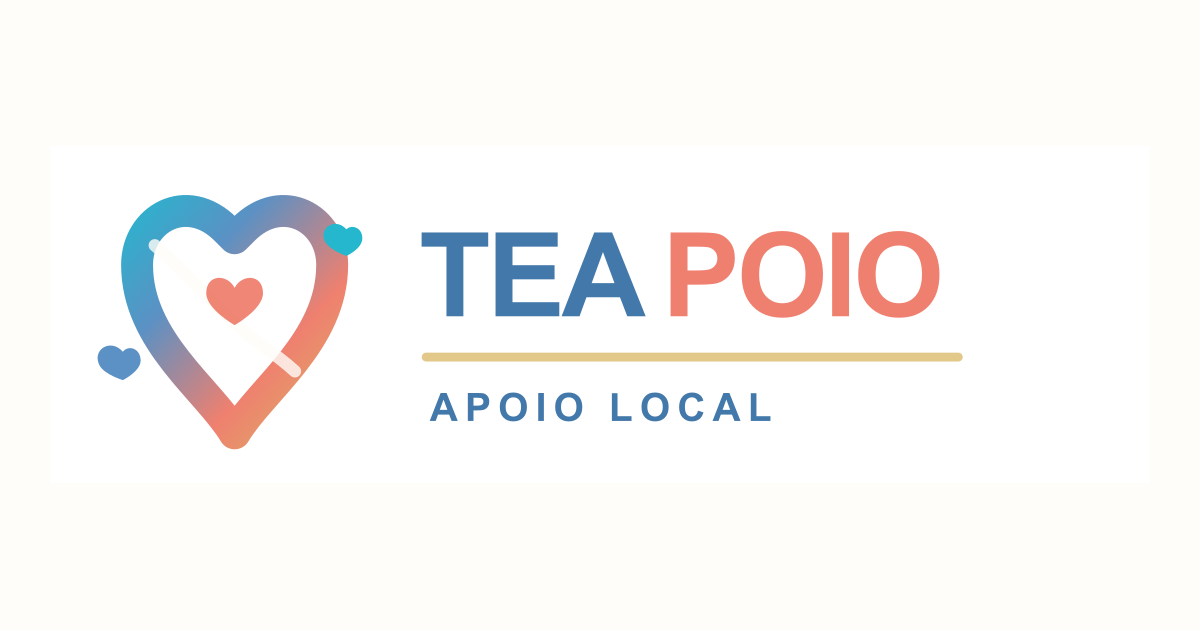
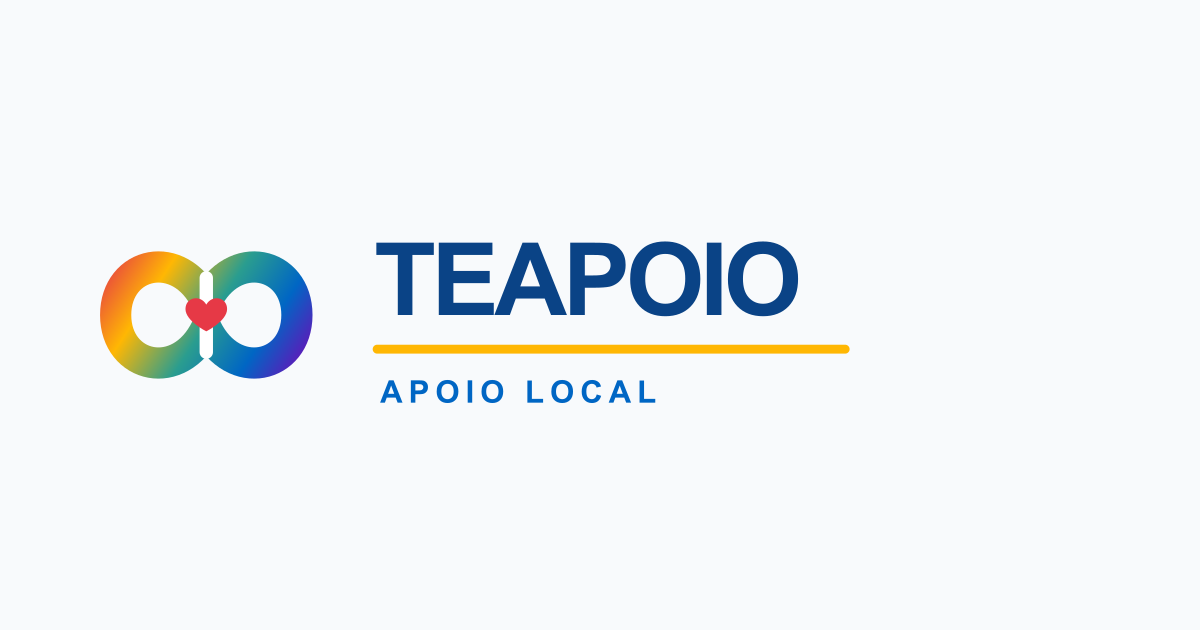
feat: aplicar manual visual oficial do TEAPOIO

Changed region(s): [[0.0617, 0.3016, 0.8017, 0.7238], [0.3083, 0.6032, 0.6475, 0.6635], [0.3083, 0.5429, 0.8017, 0.573]]

diff --git a/site/src/styles/global.css b/site/src/styles/global.css
@@ -1,30 +1,41 @@
 :root {
-  --ink: #24435f;
-  --muted: #5b6d79;
-  --paper: #fffdf9;
+  --teapoio-blue-primary: #0A4386;
+  --teapoio-blue-accent: #0066C4;
+  --teapoio-red: #E63946;
+  --teapoio-yellow: #FFB703;
+  --teapoio-green: #2A9D8F;
+  --teapoio-purple: #7209B7;
+  --teapoio-bg-light: #F8FAFC;
+  --teapoio-text-dark: #1E293B;
+  --teapoio-font: "Outfit", "Montserrat", sans-serif;
+  --teapoio-body-font: "Open Sans", "Roboto", sans-serif;
+  --ink: var(--teapoio-text-dark);
+  --muted: #475569;
+  --paper: var(--teapoio-bg-light);
   --surface: #ffffff;
-  --cream: #fff7ec;
-  --blue: #4278aa;
-  --teal: #168fa7;
-  --cyan: #25b7ce;
-  --coral: #ef806f;
-  --yellow: #d8b563;
-  --purple: #76537e;
-  --green: #279b55;
-  --line: #dbe5e0;
-  --soft-blue: #edf4ff;
-  --soft-coral: #fff0eb;
-  --soft-yellow: #fffbe2;
+  --cream: #FFF9E6;
+  --blue: var(--teapoio-blue-primary);
+  --teal: var(--teapoio-green);
+  --cyan: var(--teapoio-blue-accent);
+  --coral: var(--teapoio-red);
+  --yellow: var(--teapoio-yellow);
+  --yellow-ink: #8A6300;
+  --purple: var(--teapoio-purple);
+  --green: var(--teapoio-green);
+  --line: #D6E0EA;
+  --soft-blue: #EEF5FF;
+  --soft-coral: #FFF0F1;
+  --soft-yellow: #FFF8DD;
   --radius-lg: 28px;
   --radius-md: 18px;
-  --shadow: 0 20px 55px rgba(38, 74, 87, 0.11);
+  --shadow: 0 20px 55px rgba(10, 67, 134, 0.14);
   --ease: cubic-bezier(0.16, 1, 0.3, 1);
 }
 
 * { box-sizing: border-box; }
 html { scroll-behavior: smooth; background: var(--paper); }
-body { min-width: 320px; margin: 0; overflow-x: hidden; background: var(--paper); color: var(--ink); font-family: "Lato", "Atkinson Hyperlegible", "Trebuchet MS", Arial, sans-serif; font-size: 1.08rem; line-height: 1.6; }
-h1, h2, h3, h4 { font-family: "Montserrat", "Lato", "Trebuchet MS", Arial, sans-serif; text-wrap: balance; }
+body { min-width: 320px; margin: 0; overflow-x: hidden; background: var(--paper); color: var(--ink); font-family: var(--teapoio-body-font); font-size: 1.08rem; line-height: 1.6; }
+h1, h2, h3, h4 { font-family: var(--teapoio-font); text-wrap: balance; }
 body::selection { background: var(--yellow); color: var(--ink); }
 a { color: inherit; }
 button, input, select { font: inherit; }
@@ -39,7 +50,7 @@ img { max-width: 100%; }
 [hidden] { display: none !important; }
 
 .site-header { position: fixed; z-index: 30; top: 16px; left: 50%; width: min(1160px, calc(100% - 2rem)); transform: translateX(-50%); }
-.site-header__inner { display: flex; min-height: 64px; align-items: center; gap: 24px; padding: 10px 12px 10px 16px; border: 1px solid rgba(34, 50, 56, 0.12); border-radius: 18px; background: rgba(255, 253, 249, 0.92); box-shadow: 0 10px 35px rgba(46, 75, 77, 0.1); backdrop-filter: blur(18px); }
+.site-header__inner { display: flex; min-height: 64px; align-items: center; gap: 24px; padding: 10px 12px 10px 16px; border: 1px solid rgba(30, 41, 59, 0.12); border-radius: 18px; background: rgba(248, 250, 252, 0.94); box-shadow: 0 10px 35px rgba(10, 67, 134, 0.1); backdrop-filter: blur(18px); }
 .brand { display: inline-flex; flex: none; align-items: center; gap: 10px; color: var(--blue); text-decoration: none; }
 .brand__logo { display: block; width: 38px; height: 38px; flex: none; }
 .brand__name { display: inline-flex; align-items: baseline; color: var(--blue); font-size: 1.08rem; font-weight: 900; letter-spacing: 0.025em; }
@@ -49,15 +60,15 @@ img { max-width: 100%; }
 .site-header nav a[aria-current="page"] { color: var(--blue); }
 .header-cta, .button { display: inline-flex; align-items: center; justify-content: center; gap: 9px; border-radius: 999px; font-weight: 800; text-decoration: none; transition: transform 0.25s var(--ease), box-shadow 0.25s var(--ease), background 0.25s var(--ease); }
 .header-cta { flex: none; padding: 11px 16px; background: var(--blue); color: #fff; font-size: 0.84rem; }
-.header-cta:hover, .button--primary:hover { box-shadow: 0 12px 24px rgba(20, 87, 213, 0.22); transform: translateY(-2px); }
+.header-cta:hover, .button--primary:hover { box-shadow: 0 12px 24px rgba(0, 102, 196, 0.24); transform: translateY(-2px); }
 .menu-toggle { display: none; align-items: center; gap: 8px; padding: 9px 11px; border: 1px solid var(--line); border-radius: 999px; background: var(--surface); color: var(--ink); cursor: pointer; font-size: 0.8rem; font-weight: 800; }
 .menu-toggle__icon { display: grid; gap: 3px; }
 .menu-toggle__icon i { display: block; width: 15px; height: 2px; border-radius: 2px; background: currentColor; }
 
 .hero { position: relative; display: grid; min-height: 760px; grid-template-columns: 0.93fr 1.07fr; align-items: center; gap: clamp(36px, 7vw, 92px); padding-block: 145px 100px; }
-.hero::before { position: absolute; z-index: -1; top: 110px; left: -20vw; width: 50vw; height: 50vw; max-width: 650px; max-height: 650px; border-radius: 50%; background: radial-gradient(circle, rgba(243, 221, 25, 0.17), rgba(243, 221, 25, 0) 67%); content: ""; }
+.hero::before { position: absolute; z-index: -1; top: 110px; left: -20vw; width: 50vw; height: 50vw; max-width: 650px; max-height: 650px; border-radius: 50%; background: radial-gradient(circle, rgba(255, 183, 3, 0.2), rgba(255, 183, 3, 0) 67%); content: ""; }
 .eyebrow { display: flex; align-items: center; gap: 9px; margin: 0; color: var(--teal); font-size: 0.73rem; font-weight: 900; letter-spacing: 0.13em; line-height: 1.2; }
-.eyebrow__pulse { width: 9px; height: 9px; border-radius: 50%; background: var(--coral); box-shadow: 0 0 0 5px rgba(239, 76, 78, 0.12); }
+.eyebrow__pulse { width: 9px; height: 9px; border-radius: 50%; background: var(--coral); box-shadow: 0 0 0 5px rgba(230, 57, 70, 0.14); }
 .hero h1 { max-width: 690px; margin: 22px 0 22px; color: var(--blue); font-size: clamp(3.8rem, 8vw, 7.1rem); line-height: 0.88; letter-spacing: -0.1em; }
 .hero h1 span { color: var(--teal); }
 .hero__lede { max-width: 570px; margin: 0; color: var(--muted); font-size: clamp(1.08rem, 1.8vw, 1.3rem); line-height: 1.55; }
@@ -70,11 +81,11 @@ img { max-width: 100%; }
 .hero__trust span { display: inline-flex; align-items: center; gap: 6px; }
 .hero__trust i { display: grid; width: 18px; height: 18px; place-items: center; border-radius: 50%; background: var(--yellow); color: var(--ink); font-size: 0.72rem; font-style: normal; }
 .hero__visual { position: relative; min-height: 510px; }
-.hero__visual::before { position: absolute; top: 7%; right: 5%; width: 86%; height: 84%; border-radius: 45% 32% 44% 28%; background: linear-gradient(135deg, rgba(9, 184, 210, 0.15), rgba(243, 221, 25, 0.2)); transform: rotate(5deg); content: ""; }
-.hero__image-wrap { position: relative; display: grid; width: min(100%, 530px); height: 535px; margin-inline: auto; place-items: center; overflow: hidden; border: 1px solid rgba(66, 120, 170, 0.16); border-radius: 42% 26% 42% 28%; background: linear-gradient(145deg, #fffdf9 12%, #eef9f8 53%, #fff3e6); box-shadow: var(--shadow); transform: rotate(2deg); }
+.hero__visual::before { position: absolute; top: 7%; right: 5%; width: 86%; height: 84%; border-radius: 45% 32% 44% 28%; background: linear-gradient(135deg, rgba(42, 157, 143, 0.16), rgba(255, 183, 3, 0.2)); transform: rotate(5deg); content: ""; }
+.hero__image-wrap { position: relative; display: grid; width: min(100%, 530px); height: 535px; margin-inline: auto; place-items: center; overflow: hidden; border: 1px solid rgba(10, 67, 134, 0.18); border-radius: 42% 26% 42% 28%; background: linear-gradient(145deg, #F8FAFC 12%, #EEF8F7 53%, #FFF8E7); box-shadow: var(--shadow); transform: rotate(2deg); }
 .hero__image-wrap::after { position: absolute; inset: 0; border: 4px solid transparent; border-radius: inherit; background: linear-gradient(135deg, var(--yellow), var(--coral), var(--blue), var(--teal)) border-box; mask: linear-gradient(#fff 0 0) padding-box, linear-gradient(#fff 0 0); mask-composite: exclude; opacity: 0.55; content: ""; pointer-events: none; }
 .hero__image-wrap img { width: min(88%, 500px); height: auto; object-fit: contain; object-position: center; transform: rotate(-2deg); }
-.hero__note { position: absolute; z-index: 2; display: grid; grid-template-columns: 32px 1fr; column-gap: 9px; align-items: center; padding: 12px 16px 12px 12px; border: 1px solid rgba(34, 50, 56, 0.1); border-radius: 16px; background: rgba(255, 253, 249, 0.92); box-shadow: 0 12px 30px rgba(48, 67, 62, 0.13); }
+.hero__note { position: absolute; z-index: 2; display: grid; grid-template-columns: 32px 1fr; column-gap: 9px; align-items: center; padding: 12px 16px 12px 12px; border: 1px solid rgba(30, 41, 59, 0.1); border-radius: 16px; background: rgba(248, 250, 252, 0.94); box-shadow: 0 12px 30px rgba(10, 67, 134, 0.13); }
 .hero__note span { grid-row: span 2; display: grid; width: 32px; height: 32px; place-items: center; border-radius: 50%; background: var(--coral); color: #fff; }
 .hero__note strong { font-size: 0.84rem; line-height: 1.1; }
 .hero__note small { color: var(--muted); font-size: 0.74rem; }
@@ -87,13 +98,13 @@ img { max-width: 100%; }
 .welcome h2, .narrative h2, .features h2, .news h2, .faq-section h2, .final-cta h2 { margin: 18px 0 17px; color: var(--ink); font-size: clamp(2.4rem, 4.5vw, 4.4rem); line-height: 0.95; letter-spacing: -0.085em; }
 .welcome__intro > p:last-child, .section-lede, .narrative__intro-copy { color: var(--muted); }
 .audience-grid { display: grid; grid-template-columns: repeat(2, 1fr); gap: 14px; }
-.audience-card { display: flex; min-height: 215px; flex-direction: column; align-items: flex-start; justify-content: space-between; padding: 22px; border: 1px solid rgba(20, 87, 213, 0.16); border-top: 6px solid var(--blue); border-radius: var(--radius-md); background: var(--soft-blue); color: var(--ink); text-decoration: none; transition: transform 0.25s var(--ease), box-shadow 0.25s var(--ease); }
+.audience-card { display: flex; min-height: 215px; flex-direction: column; align-items: flex-start; justify-content: space-between; padding: 22px; border: 1px solid rgba(0, 102, 196, 0.18); border-top: 6px solid var(--blue); border-radius: var(--radius-md); background: var(--soft-blue); color: var(--ink); text-decoration: none; transition: transform 0.25s var(--ease), box-shadow 0.25s var(--ease); }
 .audience-card:hover { box-shadow: var(--shadow); transform: translateY(-4px); }
 .audience-card--coral { border-top-color: var(--coral); background: var(--soft-coral); }
 .audience-card--yellow { border-top-color: var(--yellow); background: var(--soft-yellow); }
 .audience-card__icon { display: grid; width: 40px; height: 40px; place-items: center; border-radius: 50%; background: var(--blue); color: #fff; font-size: 1.35rem; }
 .audience-card--coral .audience-card__icon { background: var(--coral); }
-.audience-card--yellow .audience-card__icon { background: #a18c00; }
+.audience-card--yellow .audience-card__icon { background: var(--yellow-ink); }
 .audience-card__label { margin-top: 20px; color: var(--muted); font-size: 0.72rem; font-weight: 900; letter-spacing: 0.06em; text-transform: uppercase; }
 .audience-card strong { align-self: stretch; margin-block: 8px 18px; font-size: 1.3rem; line-height: 1.1; letter-spacing: -0.04em; }
 .text-link { display: inline-flex; align-items: center; gap: 7px; color: var(--blue); font-size: 0.88rem; font-weight: 900; text-decoration: none; }
@@ -124,11 +135,11 @@ img { max-width: 100%; }
 .filter-clear:hover { border-color: var(--teal); background: var(--soft-blue); }
 .filter-status { margin: 13px 0 0; color: var(--muted); font-size: 0.86rem; }
 .features__grid { display: grid; grid-template-columns: repeat(4, 1fr); gap: 14px; margin-top: 20px; }
-.feature-card { display: flex; min-height: 300px; flex-direction: column; align-items: flex-start; padding: 23px; border: 1px solid var(--line); border-radius: var(--radius-md); background: var(--surface); box-shadow: 0 8px 25px rgba(41, 65, 62, 0.04); transition: border-color 0.25s var(--ease), transform 0.25s var(--ease), box-shadow 0.25s var(--ease); }
-.feature-card:hover { border-color: rgba(20, 87, 213, 0.35); box-shadow: var(--shadow); transform: translateY(-4px); }
+.feature-card { display: flex; min-height: 300px; flex-direction: column; align-items: flex-start; padding: 23px; border: 1px solid var(--line); border-radius: var(--radius-md); background: var(--surface); box-shadow: 0 8px 25px rgba(10, 67, 134, 0.06); transition: border-color 0.25s var(--ease), transform 0.25s var(--ease), box-shadow 0.25s var(--ease); }
+.feature-card:hover { border-color: rgba(0, 102, 196, 0.38); box-shadow: var(--shadow); transform: translateY(-4px); }
 .resource-card__icon { display: grid; width: 44px; height: 44px; margin-bottom: 20px; place-items: center; border-radius: 13px; background: var(--blue); color: #fff; font-size: 1.45rem; }
 .resource-card:nth-child(2) .resource-card__icon { background: var(--coral); }
-.resource-card:nth-child(3) .resource-card__icon { background: #a18c00; }
+.resource-card:nth-child(3) .resource-card__icon { background: var(--yellow-ink); }
 .resource-card:nth-child(4) .resource-card__icon { background: var(--teal); }
 .feature-card h3 { margin: 15px 0 10px; color: var(--ink); font-size: 1.38rem; line-height: 1.03; letter-spacing: -0.05em; }
 .feature-card p { margin: 0; color: var(--muted); font-size: 0.95rem; line-height: 1.48; }
@@ -150,7 +161,7 @@ img { max-width: 100%; }
 .news-card[data-news-scope="Regional"] .news-card__visual { background: var(--coral); }
 .news-card[data-news-scope="Local"] .news-card__visual { background: var(--teal); }
 .news-card__body { display: flex; min-width: 0; flex-direction: column; height: 100%; }
-.content-label { display: inline-flex; align-self: flex-start; padding: 5px 9px; border-radius: 99px; background: rgba(0, 140, 161, 0.12); color: var(--teal); font-size: 0.7rem; font-weight: 900; }
+.content-label { display: inline-flex; align-self: flex-start; padding: 5px 9px; border-radius: 99px; background: rgba(42, 157, 143, 0.14); color: var(--teal); font-size: 0.7rem; font-weight: 900; }
 .news-card h3 { margin: 16px 0 10px; color: var(--ink); font-size: 1.48rem; line-height: 1.02; letter-spacing: -0.06em; }
 .news-card p { margin: 0; color: var(--muted); font-size: 0.94rem; line-height: 1.5; }
 .news-card .text-link { margin-top: auto; padding-top: 20px; }
@@ -192,19 +203,19 @@ img { max-width: 100%; }
 .journey-card { display: grid; min-height: 280px; grid-template-rows: auto 1fr; gap: 27px; padding: 21px; border: 1px solid var(--line); border-top: 5px solid var(--blue); border-radius: var(--radius-md); background: var(--surface); box-shadow: 0 8px 25px rgba(41, 65, 62, 0.04); }
 .journey-card:nth-child(2), .journey-card:nth-child(4) { border-top-color: var(--coral); background: var(--soft-coral); }
 .journey-card:nth-child(3) { border-top-color: var(--yellow); background: var(--soft-yellow); }
-.journey-card:nth-child(5) { border-top-color: var(--teal); background: #eefafa; }
+.journey-card:nth-child(5) { border-top-color: var(--teal); background: #EEF8F7; }
 .journey-card__number, .info-card__number { color: var(--teal); font-size: 0.72rem; font-weight: 900; letter-spacing: 0.14em; }
 .journey-card h3 { margin: 0 0 12px; color: var(--blue); font-size: 1.35rem; line-height: 1.04; letter-spacing: -0.06em; }
 .journey-card p { margin: 0; color: var(--muted); font-size: 0.9rem; line-height: 1.48; }
-.support-band { display: grid; grid-template-columns: minmax(0, 1fr) minmax(280px, 0.82fr); align-items: center; gap: 55px; padding-block: 44px; border-block: 1px solid rgba(20, 87, 213, 0.16); background: linear-gradient(105deg, var(--soft-blue), #fffdf9 62%, var(--soft-yellow)); }
+.support-band { display: grid; grid-template-columns: minmax(0, 1fr) minmax(280px, 0.82fr); align-items: center; gap: 55px; padding-block: 44px; border-block: 1px solid rgba(0, 102, 196, 0.18); background: linear-gradient(105deg, var(--soft-blue), #F8FAFC 62%, var(--soft-yellow)); }
 .support-band h2 { max-width: 620px; color: var(--blue); }
 .check-list { display: grid; gap: 12px; margin: 0; padding: 0; list-style: none; color: var(--muted); font-size: 0.94rem; font-weight: 700; }
 .check-list li { display: flex; align-items: flex-start; gap: 10px; }
 .check-list li::before { display: grid; width: 22px; height: 22px; flex: none; place-items: center; border-radius: 50%; background: var(--coral); color: #fff; content: "✓"; font-size: 0.76rem; font-weight: 900; }
 .page-actions { display: flex; flex-wrap: wrap; gap: 12px; padding-block: 56px 90px; }
 .info-grid { display: grid; grid-template-columns: repeat(2, minmax(0, 1fr)); gap: 14px; margin-top: 44px; }
-.info-card { min-height: 230px; padding: 25px; border: 1px solid rgba(66, 120, 170, 0.18); border-radius: var(--radius-md); background: var(--soft-blue); }
-.info-card--coral { border-color: rgba(239, 128, 111, 0.22); background: var(--soft-coral); }
+.info-card { min-height: 230px; padding: 25px; border: 1px solid rgba(10, 67, 134, 0.18); border-radius: var(--radius-md); background: var(--soft-blue); }
+.info-card--coral { border-color: rgba(230, 57, 70, 0.24); background: var(--soft-coral); }
 .info-card h3 { max-width: 500px; margin: 22px 0 12px; color: var(--blue); font-size: clamp(1.35rem, 2vw, 1.8rem); line-height: 1; letter-spacing: -0.06em; }
 .info-card p { max-width: 570px; margin: 0; color: var(--muted); font-size: 0.96rem; line-height: 1.52; }
 .myths { display: grid; grid-template-columns: minmax(250px, 0.8fr) minmax(0, 1.2fr); gap: clamp(40px, 8vw, 105px); padding-block: 88px 100px; }
